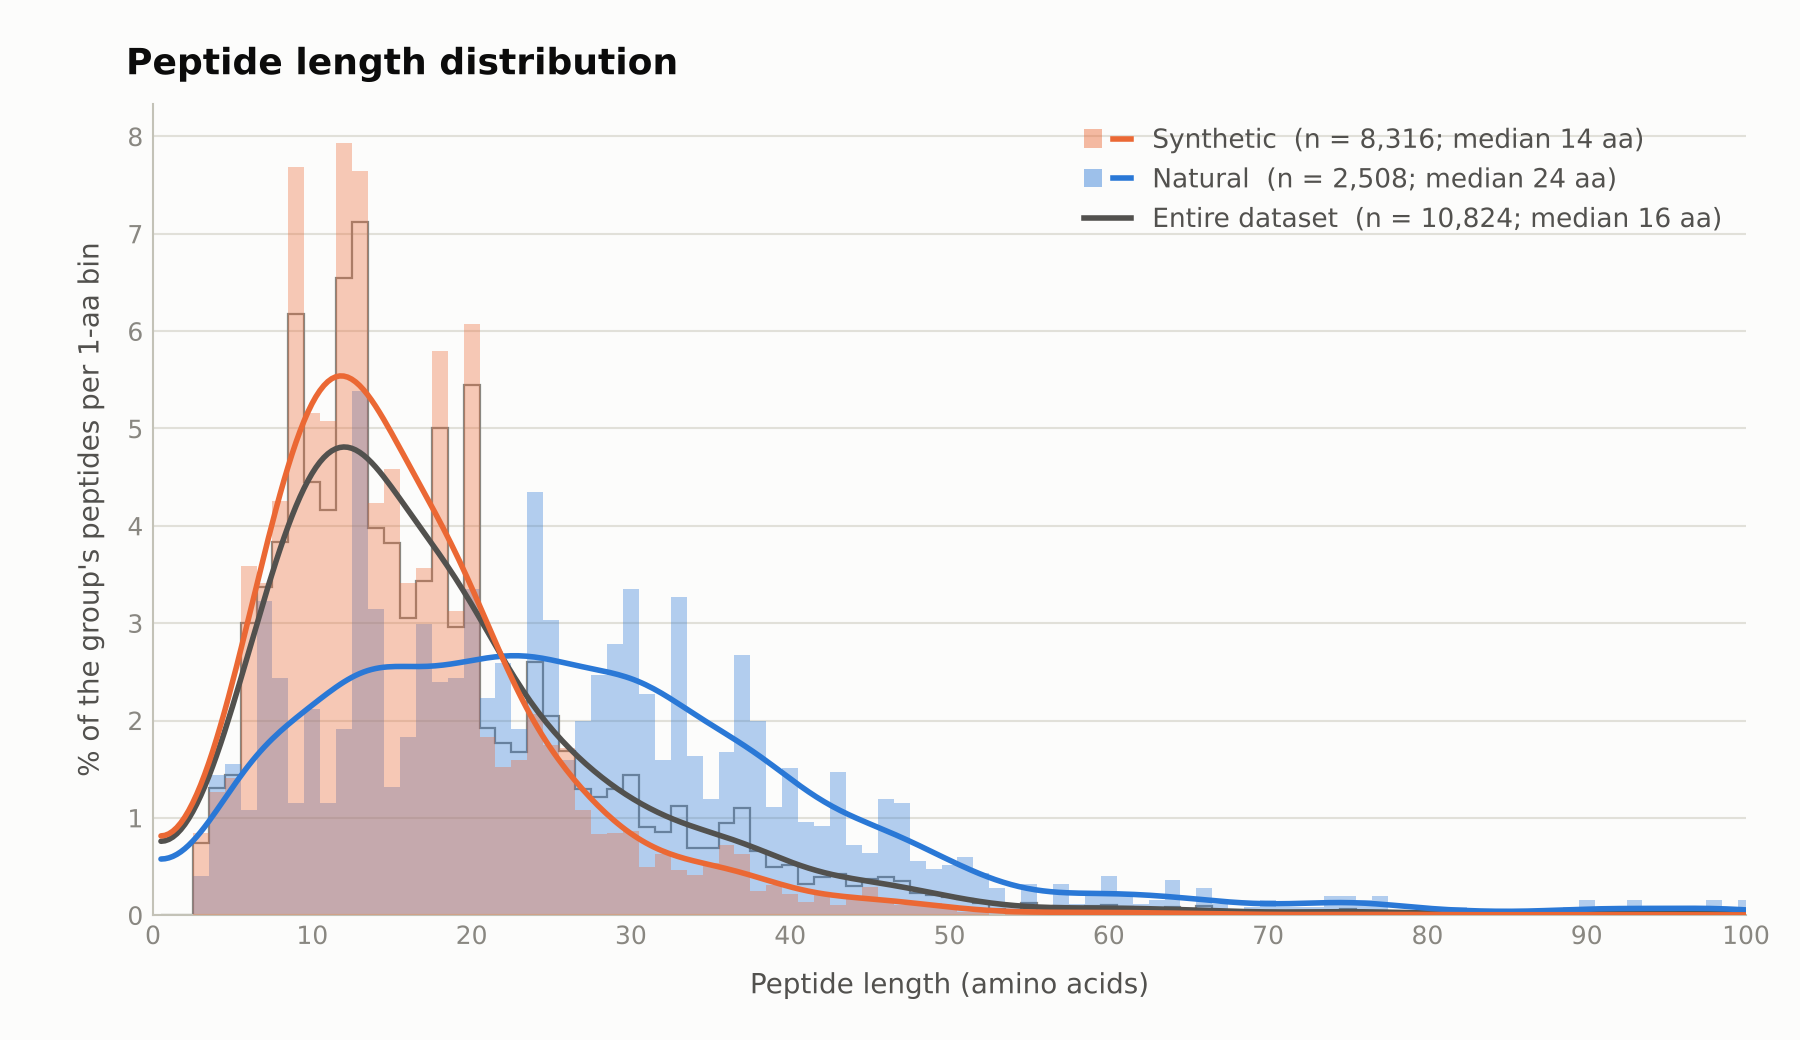
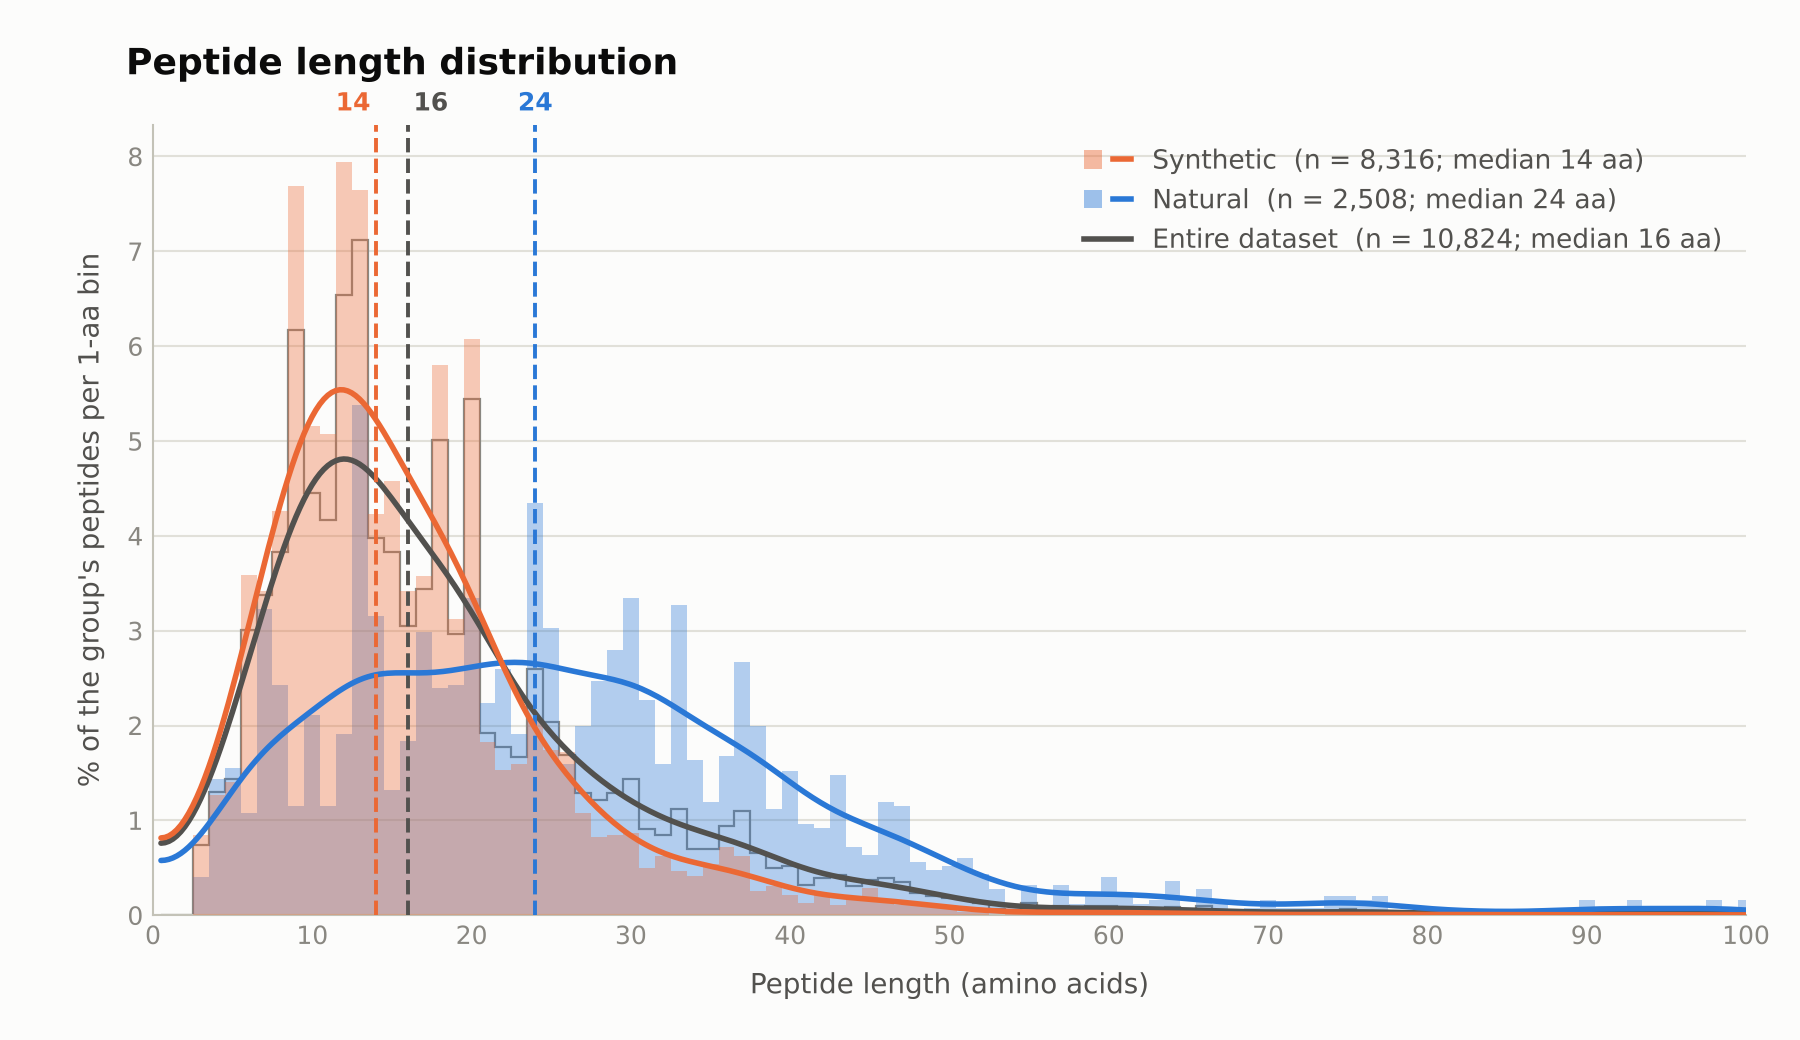
Mark the medians in the length histograms
Dashed vertical line and value for Natural, Synthetic and the entire dataset, in both
histogram versions (percent and counts).

Claude-Session: https://claude.ai/code/session_014wtB1icSBmnpkHW4JDxkCH

diff --git a/deliverables/scripts/02_make_figures.py b/deliverables/scripts/02_make_figures.py
@@ -90,7 +90,7 @@ def smooth_curve(lengths, x, bandwidth=SMOOTH_BW):
 
 def histogram(filename, as_percent):
     fig, ax = plt.subplots(figsize=(9, 5.2))
-    fig.subplots_adjust(left=0.085, right=0.97, top=0.90, bottom=0.12)
+    fig.subplots_adjust(left=0.085, right=0.97, top=0.88, bottom=0.12)
     bins = np.arange(0.5, HIST_MAX + 1.5, 1)                    # one bin per amino-acid length
     x = np.linspace(0.5, HIST_MAX, 400)
     handles = []
@@ -105,6 +105,11 @@ def histogram(filename, as_percent):
             ax.hist(L, bins=bins, weights=w, histtype="stepfilled", color=color, alpha=0.35, linewidth=0, zorder=z)
             swatch = (Patch(facecolor=color, alpha=0.45), Line2D([], [], color=color, linewidth=2))
         ax.plot(x, curve, color=color, linewidth=2, solid_capstyle="round", zorder=z + 3)
+        med = L.median()                                                   # median: dashed vertical line with its value
+        ax.axvline(med, color=color, linewidth=1.4, linestyle="--", zorder=z + 3)
+        ax.annotate(f"{med:g}", (med, 1.0), xycoords=ax.get_xaxis_transform(), xytext=({"Synthetic": -2, "Entire dataset": 2}.get(name, 0), 3), textcoords="offset points",
+                    ha={"Synthetic": "right", "Entire dataset": "left"}.get(name, "center"), va="bottom", fontsize=9,
+                    color=color, fontweight="bold", annotation_clip=False)
         handles.append((swatch, f"{name}  (n = {len(L):,}; median {L.median():g} aa)"))
     ax.set_xlim(0, HIST_MAX)
     ax.set_xticks(range(0, HIST_MAX + 1, 10))
